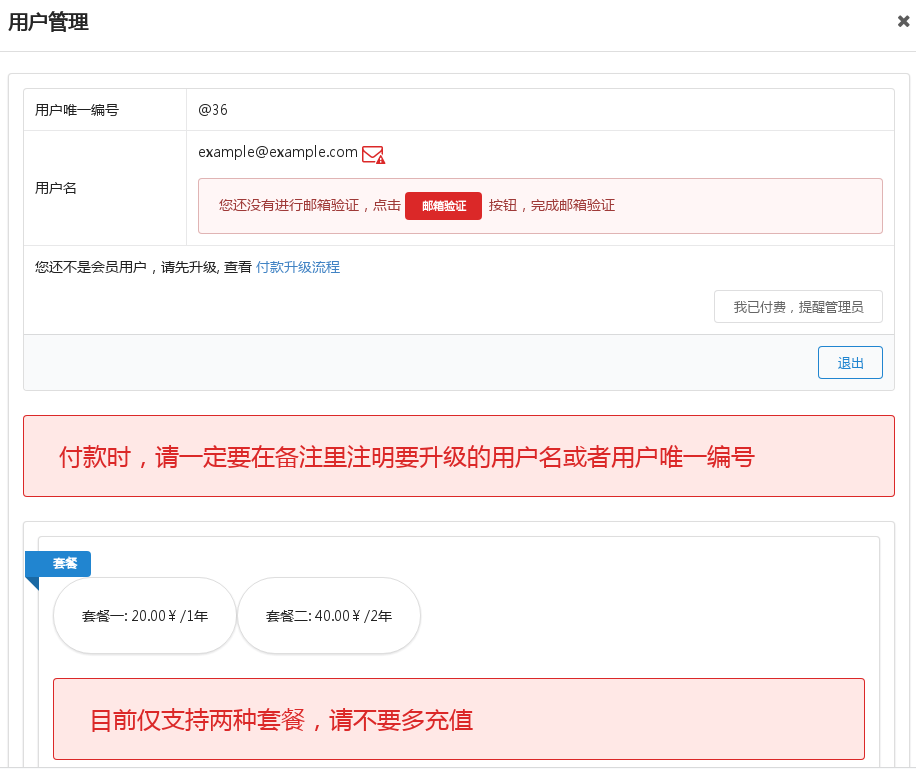
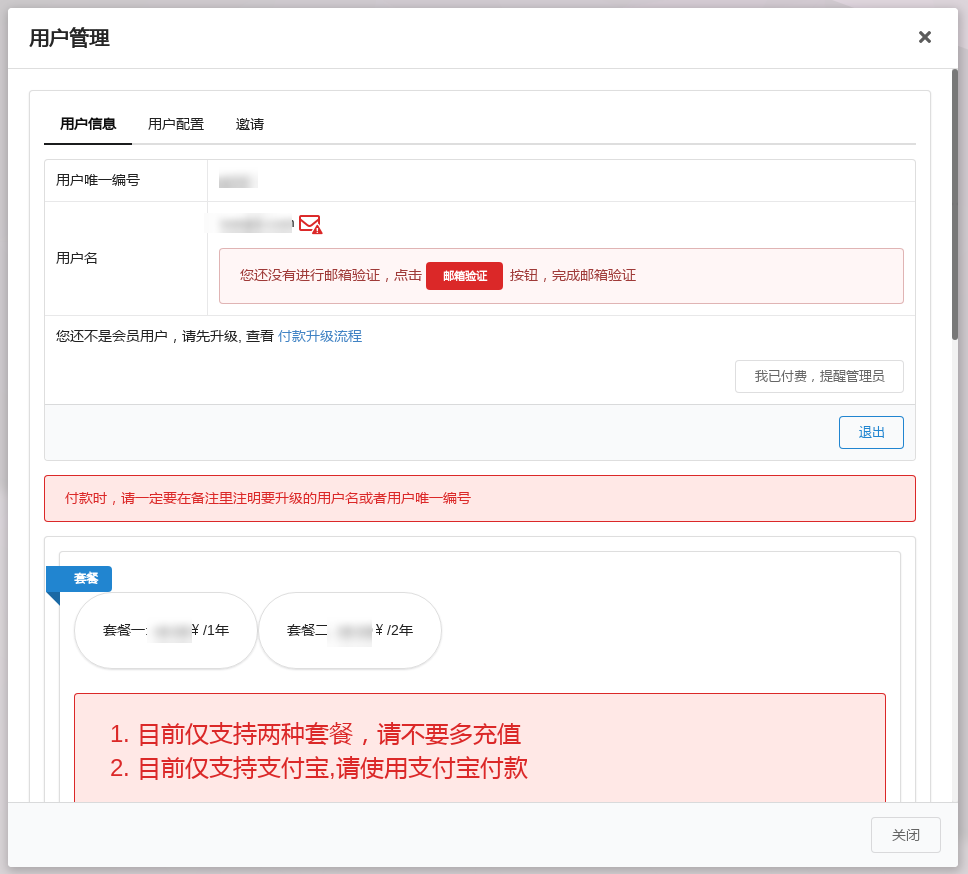
调整套餐价格

Changed region(s): [[0.0, 0.0, 1.0, 1.0], [0.3057, 0.6866, 0.4279, 0.749], [0.0611, 0.2809, 0.0917, 0.3121]]

diff --git a/src/components/price/price-question.js b/src/components/price/price-question.js
@@ -165,7 +165,7 @@ const PriceQuestion = ()=>{
       <QuestionSectionStyled>
         <Header>我可以一次性预付多年吗</Header>
         <Content>
-          不可以，目前提供最多预付两年，即两年40人民币。如果您付费超过40,我们这边也只是把你的会员时间延长两年，超出的金额需要用户在一定的时间内提出退回申请，才可以取回
+          不可以，目前提供最多预付两年，即两年80人民币。如果您付费超过80,我们这边也只是把你的会员时间延长两年，超出的金额需要用户在一个月内提出退回申请，才可以取回
         </Content>
       </QuestionSectionStyled>
       <QuestionSectionStyled>

diff --git a/src/components/price/price-compare-detail.js b/src/components/price/price-compare-detail.js
@@ -202,7 +202,7 @@ const PriceCompareDetail = ()=>{
         </PriceSection>
         <PriceSection
           title="付费用户"
-          price="￥ 20.0/年"
+          price="￥ 40.0/年"
           isActived={true}
           listItems={[
             "免费版本<span>所有</span>功能",
